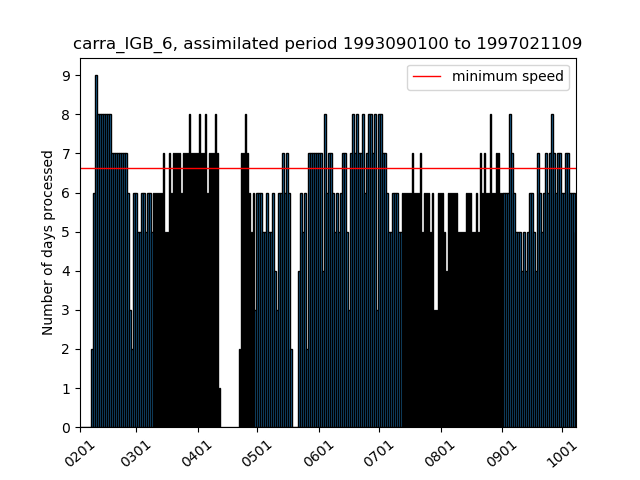
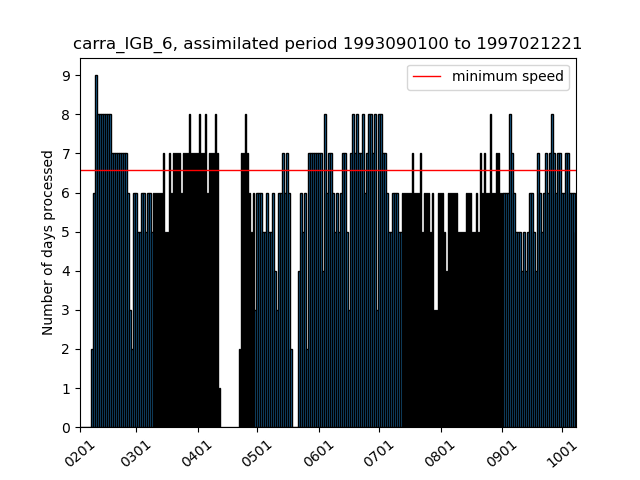
update repo

Changed region(s): [[0.125, 0.3438, 0.9062, 0.375], [0.8438, 0.0625, 0.9062, 0.125]]

diff --git a/current_state_sims.html b/current_state_sims.html
@@ -2,18 +2,18 @@
 <h1>Estimated completion dates and simulation speeds</h1>
 <p>Stream (production) completion date based on 30d (7d) moving avg speed</p>
 <p><a href="https://docs.google.com/document/d/1zDKAxuEXYnWWYzT3SZnZwY5WW8nodUMeYRjAGz46coc/edit#">Details of the calculation of the completion dates</a></p>
-<p>Last update: 2021/10/09 06:43:28 UTC</p>
+<p>Last update: 2021/10/09 12:40:40 UTC</p>
 <p>Total progress CARRA: 99.55% <a href="https://hirlam.org/portal/CARRA/Progress/GanntChart_CARRA.html"> (see detailed progress meter in Gantt chart) </a></p>
 <p>Total progress PANARCTIC: 91.67% </p>
 <p><a href="https://hirlam.org/portal/CARRA/Progress/waiting_times.html"> Queue waiting times for all streams</a></p>
 <p><a href="https://hirlam.org/portal/CARRA/Progress/mars_status.html"> MARS archive throughput </a></p>
 <html><table border="1"><tr><th>expId</th><th>Current assimilated date</th><th>End date of stream </th><th> Completion date</th><th> Avg. throughput (7d) </th> <th>Avg. throughput (30d) </th> <th> Remarks</tr>
-<tr bgcolor="#FFFF00"><td>carra_NE_3</td><td>2021063000</td><td>2021063021</td><td>2021100906</td><td>(0.0) days/day</td><td>(2.2) days/day</td><td>Inactive the past week</tr>
+<tr bgcolor="#FFFF00"><td>carra_NE_3</td><td>2021063000</td><td>2021063021</td><td>2021100912</td><td>(0.0) days/day</td><td>(2.2) days/day</td><td>Inactive the past week</tr>
 <tr bgcolor="#33FF38"><td>carra_NE_4</td><td>1992090100</td><td>1992083021</td><td>Finished on 20210824</td><td>(0.0) days/day</td><td>(0.0) days/day</td><td>Stream finished</tr>
 <tr bgcolor="#33FF38"><td>carra_NE_5</td><td>1994090100</td><td>1994083021</td><td>Finished on 20210824</td><td>(0.0) days/day</td><td>(0.0) days/day</td><td>Stream finished</tr>
-<tr bgcolor="#33FF38"><td>carra_NE_6</td><td>1997070100</td><td>1997063021</td><td>2021100812</td><td>(0.0) days/day</td><td>(1.3) days/day</td><td>Stream finished</tr>
-<tr bgcolor="#FFFF00"><td>carra_IGB_3</td><td>2021063000</td><td>2021063021</td><td>2021100906</td><td>(0.0) days/day</td><td>(2.37) days/day</td><td>Inactive the past week</tr>
+<tr bgcolor="#33FF38"><td>carra_NE_6</td><td>1997070100</td><td>1997063021</td><td>2021100818</td><td>(0.0) days/day</td><td>(1.3) days/day</td><td>Stream finished</tr>
+<tr bgcolor="#FFFF00"><td>carra_IGB_3</td><td>2021063000</td><td>2021063021</td><td>2021100912</td><td>(0.0) days/day</td><td>(2.37) days/day</td><td>Inactive the past week</tr>
 <tr bgcolor="#33FF38"><td>carra_IGB_4</td><td>1992090100</td><td>1992083021</td><td>Finished on 20210907</td><td>(0.0) days/day</td><td>(0.0) days/day</td><td>Stream finished</tr>
-<tr bgcolor="#33FF38"><td>carra_IGB_5</td><td>1994090100</td><td>1994083021</td><td>2021100815</td><td>(0.0) days/day</td><td>(3.23) days/day</td><td>Stream finished</tr>
-<tr bgcolor="#FFA500"><td>carra_IGB_6</td><td>1997021109</td><td>1997063021</td><td>2021110120</td><td>(6.14) days/day</td><td>(5.9) days/day</td><td>Completion date after project end (20211031)</tr>
-<tr bgcolor="#33FF38"><td>carra_pan</td><td>2018090100</td><td>2018090100</td><td>2021100906</td><td>(3.43) days/day</td><td>(3.37) days/day</td><td>Stream finished</tr>
+<tr bgcolor="#33FF38"><td>carra_IGB_5</td><td>1994090100</td><td>1994083021</td><td>2021100821</td><td>(0.0) days/day</td><td>(3.23) days/day</td><td>Stream finished</tr>
+<tr bgcolor="#FFA500"><td>carra_IGB_6</td><td>1997021221</td><td>1997063021</td><td>2021110122</td><td>(6.14) days/day</td><td>(5.9) days/day</td><td>Completion date after project end (20211031)</tr>
+<tr bgcolor="#33FF38"><td>carra_pan</td><td>2018090100</td><td>2018090100</td><td>2021100912</td><td>(3.43) days/day</td><td>(3.37) days/day</td><td>Stream finished</tr>
